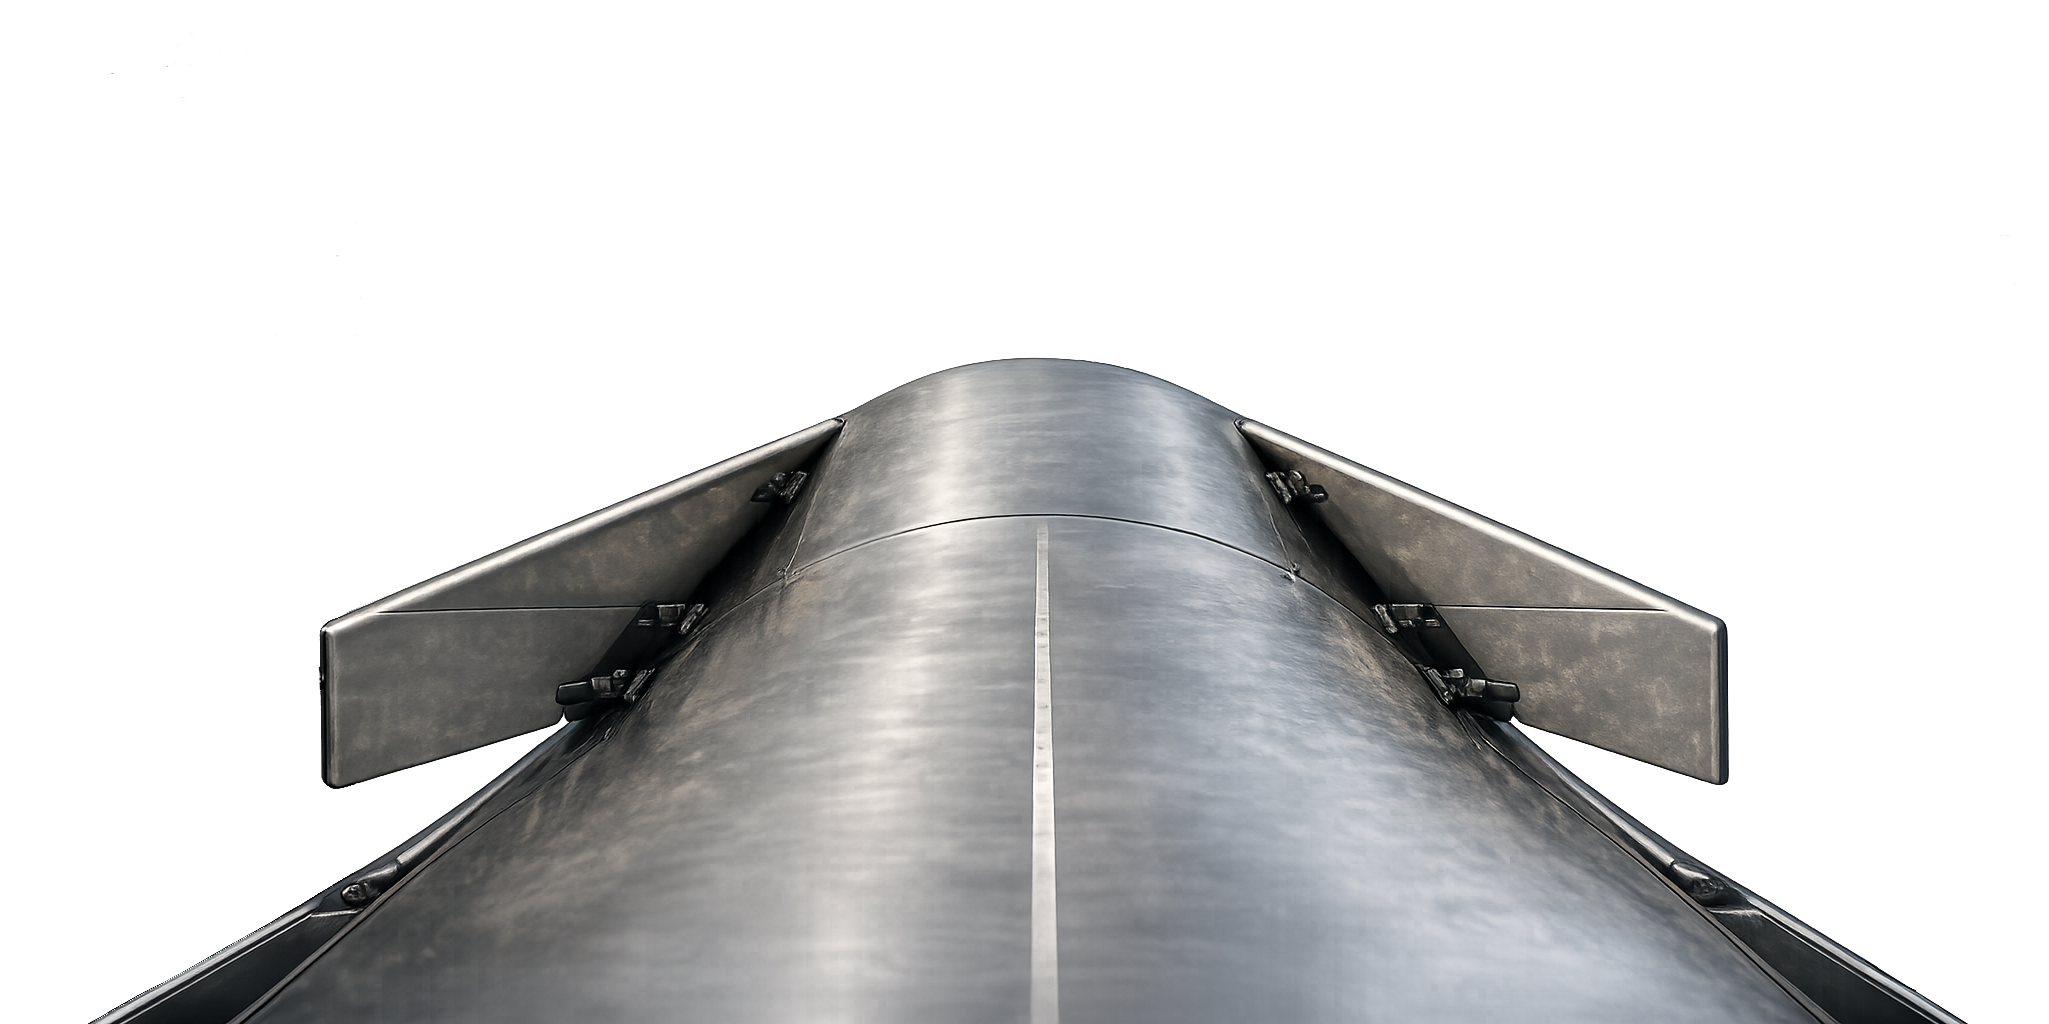
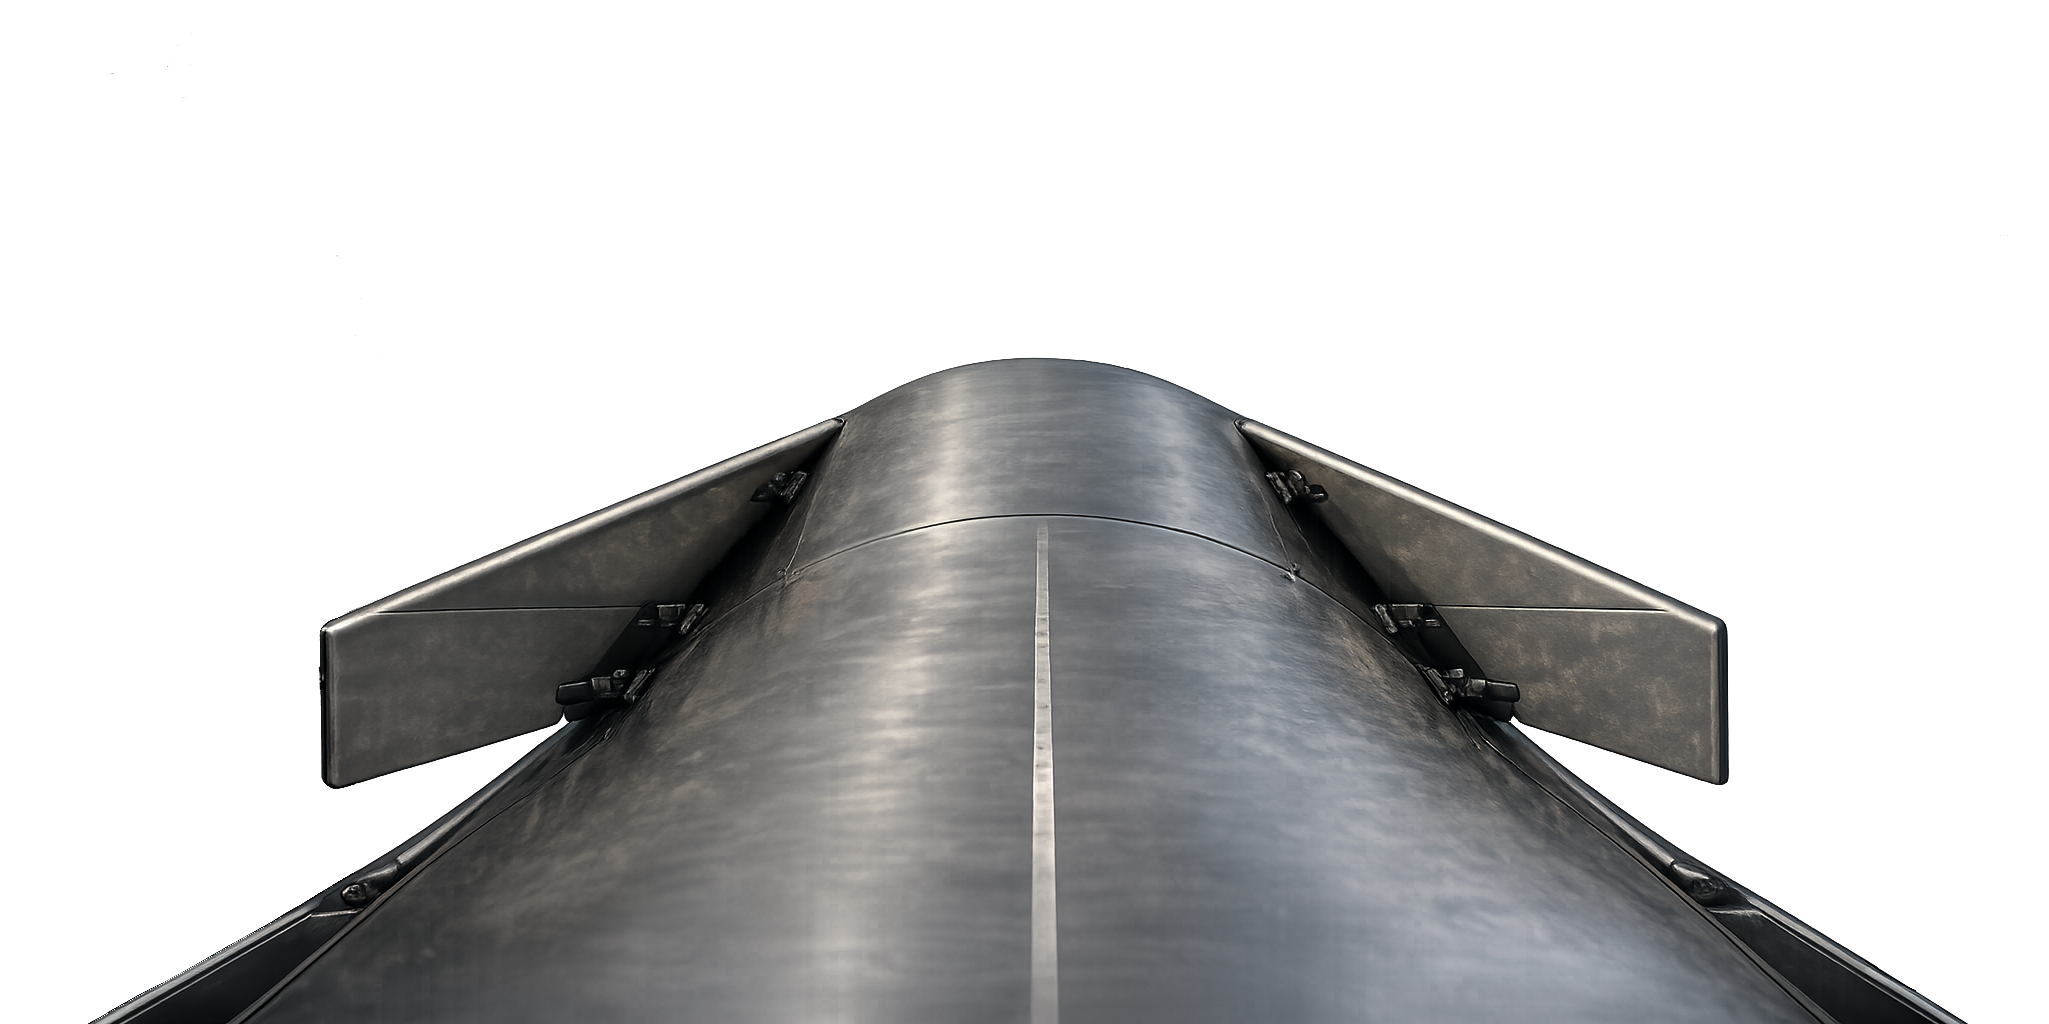
fix(ui): vaisseau opaque hors calque 80 % + calques halo
- Starship en z-15 hors opacity-80 pour masquer les planètes
- Halo/vignette en z-25 avec opacity-80 conservée
- Mise à jour asset starship.png

Made-with: Cursor

diff --git a/web/src/App.tsx b/web/src/App.tsx
@@ -1125,7 +1125,11 @@ export default function TeslaFuturisticPortalConcept() {
 
           <div className="absolute inset-0 overflow-hidden">
             <div className="absolute inset-0 bg-[linear-gradient(180deg,#181d24_0%,#12171d_48%,#10151b_100%)]" />
-            <div className="pointer-events-none absolute inset-0 opacity-80">
+            {/* 1) Purpose:
+                - Champ étoiles / nébuleuses / planètes assourdi (80 %) sans le vaisseau pour éviter qu’une planète se lise à travers le PNG.
+                2) Key variables: `z-[5]` sous le starship (`z-[15]`) et sous halo (`z-[25]`).
+                3) Logic flow: le vaisseau et le halo sont des frères séparés pour opacités indépendantes. */}
+            <div className="pointer-events-none absolute inset-0 z-[5] opacity-80">
               {/* Etoiles scintillantes */}
               <div className="lightspeed-starfield z-[5]">
                 {starNodes.map((star) => (
@@ -1232,25 +1236,30 @@ export default function TeslaFuturisticPortalConcept() {
                   </span>
                 )}
               </div>
+            </div>
 
-              {/* 1) Purpose:
-                  - Silhouette de vaisseau ancrée au bas de la carte, sous halo / vignette pour la profondeur.
-                  2) Key variables: asset natif 1000×500 px ; `z-[45]` entre planètes (40) et aura (50–51).
-                  3) Logic flow: `width`/`height` = taille réelle du PNG ; `max-w-full` réduit si la carte est plus étroite. */}
-              <div className="absolute inset-x-0 bottom-0 z-[45] flex items-end justify-center pointer-events-none">
-                <img
-                  src="/assets/images/starship.png"
-                  alt=""
-                  width={1000}
-                  height={500}
-                  className="h-auto w-[1000px] max-w-full select-none object-contain object-bottom opacity-[0.92]"
-                  draggable={false}
-                />
-              </div>
+            {/* 1) Purpose:
+                - Vaisseau en opacité pleine (hors calque 80 %) pour masquer nettement les planètes qui passent derrière.
+                2) Key variables: PNG 1000×500 ; `isolation-isolate` + `mix-blend-normal` pour éviter tout mélange avec les couches animées.
+                3) Logic flow: frère du bloc `opacity-80` ; `z-[15]` au-dessus des planètes (dans le calque 80 %). */}
+            <div className="pointer-events-none absolute inset-x-0 bottom-0 z-[15] flex items-end justify-center [isolation:isolate]">
+              <img
+                src="/assets/images/starship.png"
+                alt=""
+                width={1000}
+                height={500}
+                className="h-auto w-[1000px] max-w-full select-none object-contain object-bottom mix-blend-normal opacity-100"
+                draggable={false}
+              />
+            </div>
 
-              {/* Dégradés centre/bords (toujours au premier plan) */}
-              <div className="speed-edge-aura z-[50]" />
-              <div className="speed-center-vignette z-[51]" />
+            {/* 1) Purpose:
+                - Halo + vignette comme avant (ré-appliquer ~80 % sur le groupe pour conserver la luminosité globale).
+                2) Key variables: `z-[25]` au-dessus du vaisseau.
+                3) Logic flow: `mix-blend-mode: screen` sur `.speed-edge-aura` reste inchangé dans `index.css`. */}
+            <div className="pointer-events-none absolute inset-0 z-[25] opacity-80">
+              <div className="speed-edge-aura" />
+              <div className="speed-center-vignette" />
             </div>
 
             <div className="absolute left-[6%] top-[16%] h-[58%] w-[44%] rotate-[12deg] rounded-[26px] border border-white/5 bg-[radial-gradient(circle,rgba(255,255,255,0.05),transparent_62%)] blur-2xl" />
